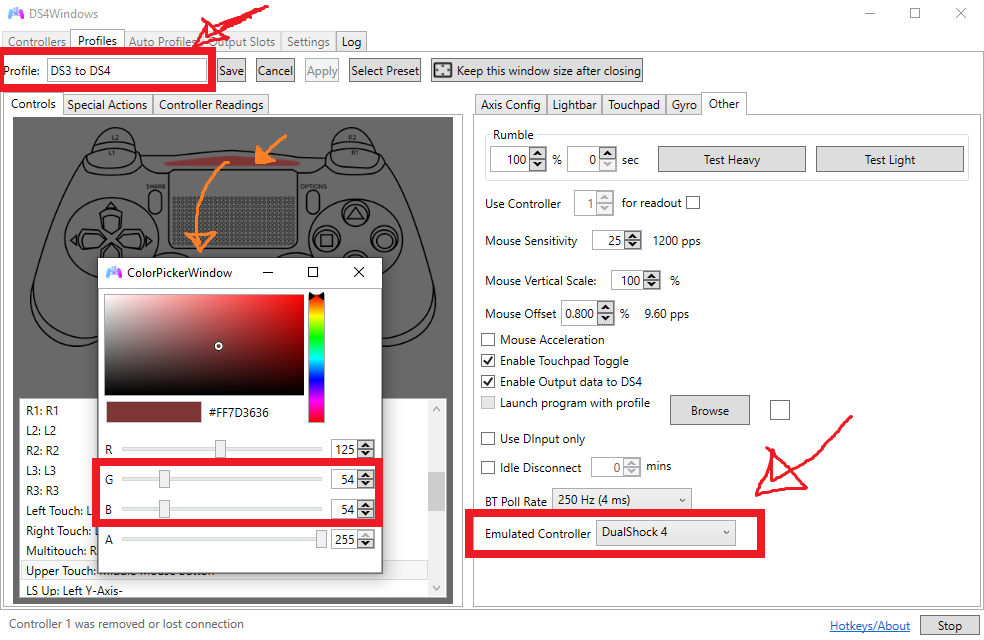
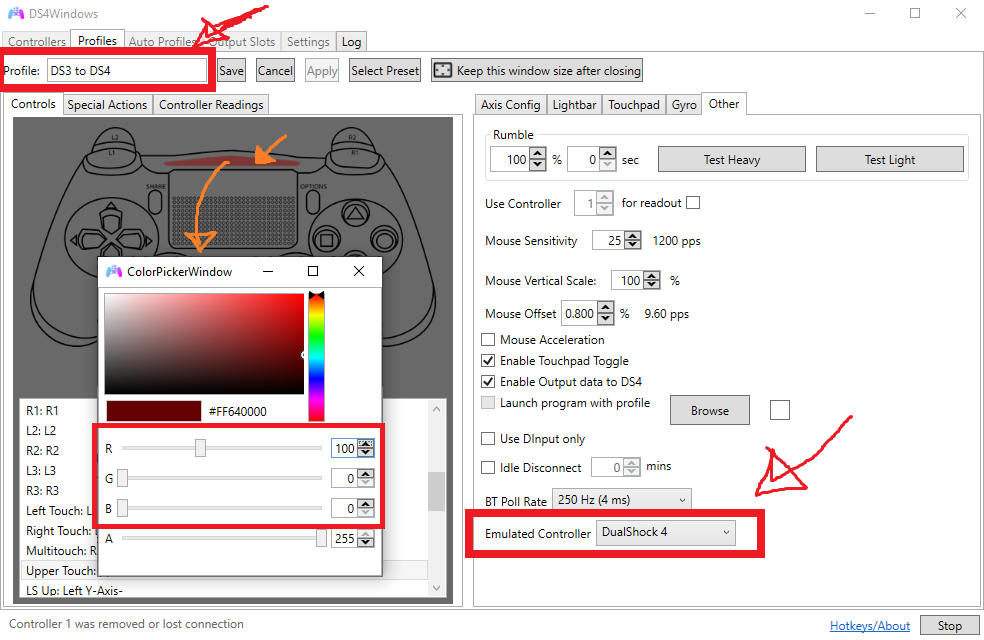
Changes to profile creation example

Changed region(s): [[0.0915, 0.625, 0.3963, 0.9062], [0.0915, 0.4062, 0.3354, 0.4688], [0.2134, 0.5312, 0.2439, 0.5625]]

diff --git a/docs/projects/DsHidMini/DS4-Mode-User-Guide.md b/docs/projects/DsHidMini/DS4-Mode-User-Guide.md
@@ -189,7 +189,7 @@ The controller that DS4Windows emulates is dependent on the current selected pro
 - When asked if a preset is to be used, choose "yes" then "Gamepad"
 - On the right side go the _Other_ tab
 - In the final option of the _Other_ tab, "Emulated Controller", change from _Xbox 360_ to _DualShock 4_
-- On the left side, click on the Light Bar inside the image of the DualShock 4 which will open the _Color Picker Window_, as shown in the picture below. For now, pick any color as long as "G" or "B" are __not__ 0 or 255 to keep the default DsHidMini's LED behavior (read the _Light Bar color to LEDs translation_ section later to know why)
+- Adjust the Light Bar color related settings according to what you want according to the _Light Bar to LEDs translation_ section (in the example below the profile will be represented by LED 2)
 - Give a name to your profile (e.g.: DS3 to DS4)
 - Save the profile
 - Back in the _Controllers_ tab, click on the _Selected profile_ box and change from default to the profile you just created
